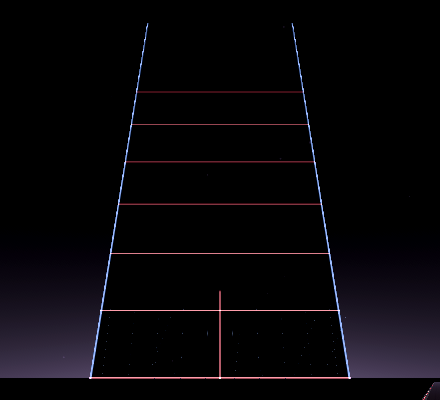
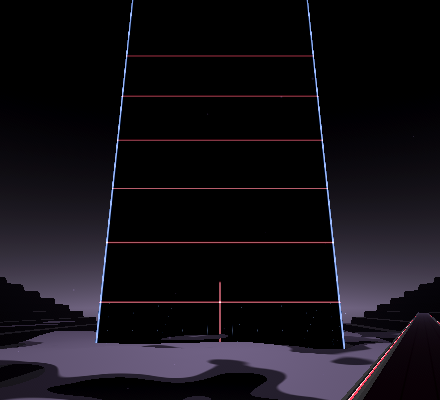
Monolith: stand on a pillar above a terraced valley with low clouds
Owner, 2026-10-31: the player stands on a tall pillar in the middle of a
valley, looking down on terraces stepping away, the slab ahead, stylized
low clouds among the terraces (owner's pick B).

- Pillar 10 m round down to the valley floor 80 m below; the slab stands
  on that floor, down the valley 30 degrees left of ahead.
- Valley mesh: floor 460 m wide, terraces 15 m up every 30 m to ridges
  near +295 m at 980 m, one vertex column per step edge so steps stay
  sharp. Every terrace above y -5 starts beyond 320 m, so the notes'
  fly-in stays clear on 360 maps too.
- Two opaque cloud layers (y -50, -25) with holes (discard, no
  blending), domed by their noise, two flat tones, drifting.
- Floor shader: neutral base, steep faces darker than treads. Sky: a
  faint neutral glow all round so the ridges read as silhouettes.
- Thumbnails rendered again (pitch 18 so the slab rises from the clouds).

Untuned; GPU not yet measured on the headset.

Claude-Session: https://claude.ai/code/session_01XiLHAWRVVgDFZqR7J7F4a3

diff --git a/game/env/AGENTS.md b/game/env/AGENTS.md
@@ -101,9 +101,14 @@ Henge (24 monoliths round the player, for 90/360 maps; BLOCKOUT 2026-10-29)
   the bands and adds `FLOOD_LEVEL` grey, capped at `FLOOR_MAX` below the notes. `HengeSky.gdshader`: dark with a
   neutral horizon glow (no `bg_<type>`). Picked only in the menu or for 90/360 maps; never by Follow map.
 
-Monolith (one colossal slab beside an open plain, abstract; in the Auto pool; BLOCKOUT 2026-10-31)
+Monolith (one colossal slab down a terraced valley, seen from a tall pillar, abstract; in the Auto pool; BLOCKOUT
+2026-10-31)
 - `MonolithRig.gd` (tool, `MonolithRig`): one black box `SLAB` (1:4:9) `SLAB_DISTANCE` out, `SLAB_YAW` left of ahead,
-  its face to the player (`face_material`); a floor disc `FLOOR_RADIUS` out (`floor_material`). `foot_spot(share)` and
+  its face to the player (`face_material`), standing on the floor of a valley `VALLEY_Y` below the platform that runs
+  the same way; the player's pillar down to it; the valley's sides step up in terraces (`_valley_mesh`: a column of
+  vertices on each step edge so steps stay sharp, ending `VALLEY_RADIUS` out, inside the far plane; valley and pillar
+  share `floor_material`); two cloud planes (`CLOUD_LAYERS`) among the terraces. Every terrace above y -5 starts
+  beyond r 320 m, bends included; keep it so when changing the valley's numbers. `foot_spot(share)` and
   `up_face(lean)` place the lasers (`LightRig` "monolith": diagonal beams up the face from its foot, waving lasers
   between; no square bars). Nothing within the notes' 300 m fly-in in any direction (owner's rule, 2026-10-31).
 - `MonolithFace.gdshader`: the slab's lights drawn on its front face (strip meshes would z-fight 500-1000 m out), each
@@ -111,9 +116,12 @@ Monolith (one colossal slab beside an open plain, abstract; in the Auto pool; BL
   the foot by `lit`, a slit up the middle open to `slit` and a foot strip in the floor lights' colour
   (`EventDriver._update_monolith`: `_built` x `MONOLITH_BUILT_SHARE`, a drop by Henge's `henge_drop` rule opens the
   slit, it closes to `MONOLITH_SLIT_REST`). Soft far edges not on yet: planned for the slab's outline, never its lines.
-- `MonolithFloor.gdshader`: dark plain, the horizon's glow on the far ground toward the slab, the slab's shadow falling
-  toward the player as a widening wedge. `MonolithSky.gdshader`: black with a neutral horizon glow behind the slab
-  (`SLAB_DIR` must match `MonolithRig.SLAB_YAW`; no `bg_<type>`).
+- `MonolithFloor.gdshader`: the valley and pillar: dark ground with a neutral `BASE`, the horizon's glow on the far
+  ground toward the slab, steep faces darker than treads (slope from screen derivatives, no normals), the slab's shadow
+  falling toward the player as a widening wedge. `MonolithCloud.gdshader`: opaque clouds with holes (discard, no
+  blending), domed up by their own noise, two flat tones (edge band and lit top), drifting. `MonolithSky.gdshader`:
+  black with a neutral horizon glow behind the slab (`SLAB_DIR` must match `MonolithRig.SLAB_YAW`; no `bg_<type>`) and
+  a fainter neutral one all round so the ridges stand as silhouettes.
 
 Metal Factory (underground power plant)
 - `MetalFactoryRig.gd` (tool): pistons over anvils, gear rings, energy rails, wall kit with vents, vault, drive gears.

diff --git a/doc/world/SPATIAL_LAYOUT.md b/doc/world/SPATIAL_LAYOUT.md
@@ -96,11 +96,17 @@ Plain boxes in `HengeRig.gd`, every size a named constant there; for 90 and 360 
 ## Monolith (BLOCKOUT 2026-10-31, `game/env/MonolithRig.gd`)
 - Slab: 360 m wide, 810 m tall, 90 m deep; front face 520 m from the player, 30 degrees left of ahead, facing them; its
   top front corners about 980 m away (camera far 1024 m).
-- Floor: a dark disc 1000 m out at y -0.4 (under the platform's base); the slab's shadow on it toward the player.
+- Pillar: the platform stands on a column 10 m round down to the valley floor at y -80.
+- Valley: runs the slab's way (30 degrees left of ahead); its floor 460 m wide at y -80, bending 25 m either way; then
+  terraces up both sides, 15 m higher every 30 m out (4 m steep faces), to ridges about +295 m at 980 m. The first
+  terrace above y -5 starts beyond 325 m. The slab stands on the valley floor (top about 950 m away); its shadow falls
+  down the valley toward the player.
+- Clouds: two layers at y -50 and -25, domed up to 14 m, 45% and 60% open air, drifting; all below y -5.
 - Lights: drawn on the slab's face (edges 3 m, seams 1.5 m every 90 m, slit 2 m, foot strip 2 m); beam fixtures along
   its foot, 2 m in front of the face.
-- Sky: black, a neutral glow low on the horizon behind the slab.
-- Note corridor: nothing within 520 m in any direction above the floor; the notes' 300 m fly-in is clear.
+- Sky: black, a neutral glow low on the horizon behind the slab and a fainter one all round behind the ridges.
+- Note corridor: within 320 m in any direction nothing rises above y -5 but the platform itself; the notes' 300 m
+  fly-in is clear.
 
 ## Exclusion zones
 - The note corridor: lanes ±1.2 m (more when wide), y 0 to 2.5, from the player to the far spawn. No scenery,

diff --git a/doc/world/GAME_BIBLE.md b/doc/world/GAME_BIBLE.md
@@ -60,6 +60,9 @@ See `SPATIAL_LAYOUT.md` (origin, bounds, corridor, exclusion zones) and the root
   waving). A faint neutral glow on the horizon behind it; its shadow falls across the plain toward the player.
 - Build-up: seams light from the foot up; drop: the slit opens to the top, then closes back low.
 - The main form is one symmetric object placed off-centre on purpose (the point of the stage); props still to come.
+- Setting (owner, 2026-10-31): the player stands on a tall pillar in the middle of a valley, looking down on terraces
+  stepping away below, the slab ahead down the valley, stylized low clouds drifting among the terraces (owner's pick
+  "clouds among terraces" over "above a sea of cloud" and "clouds only far away").
 
 ## Stage stories (agreed with the owner, 2026-10-24, as a first version)
 - Classic: a steel tunnel where a lighting crew rehearses its show. The rings are calibration gates; the moving
